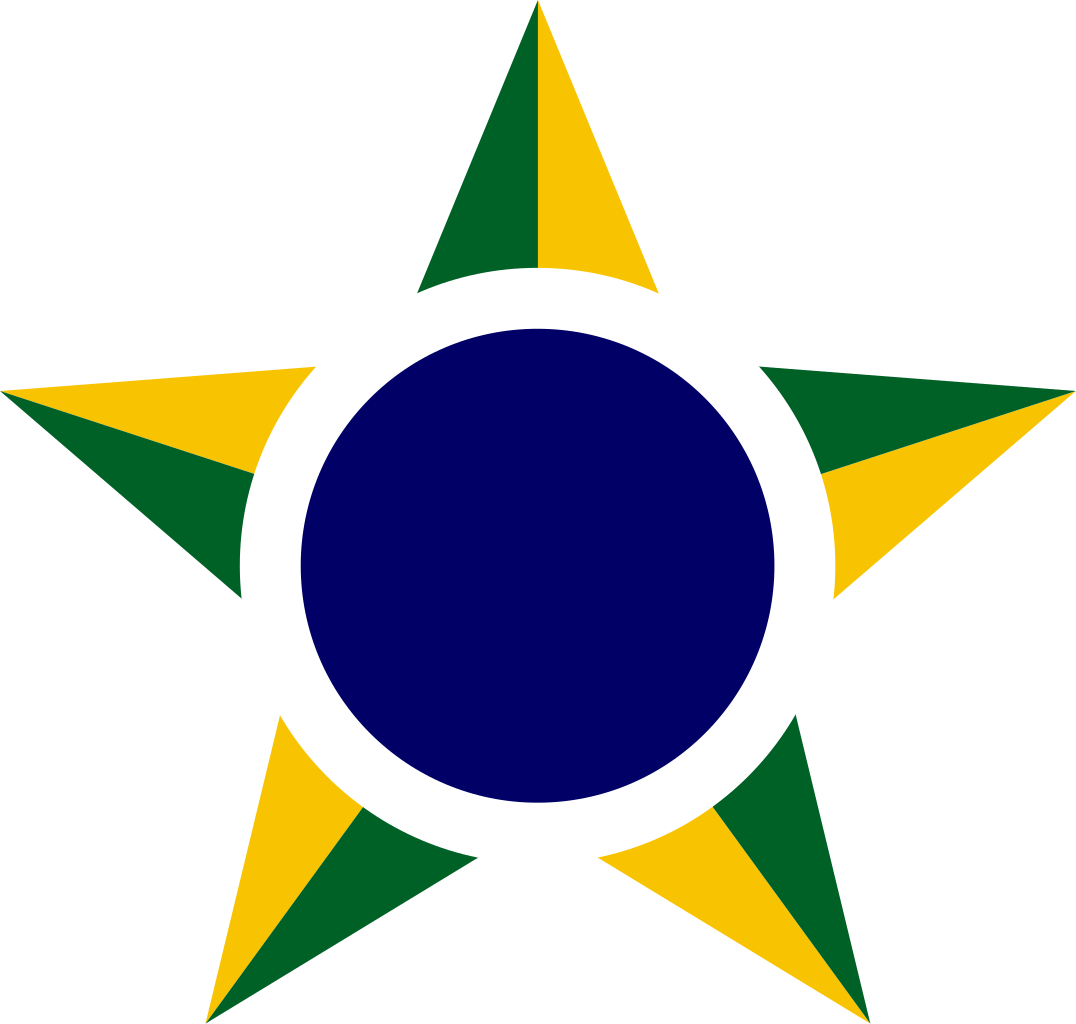
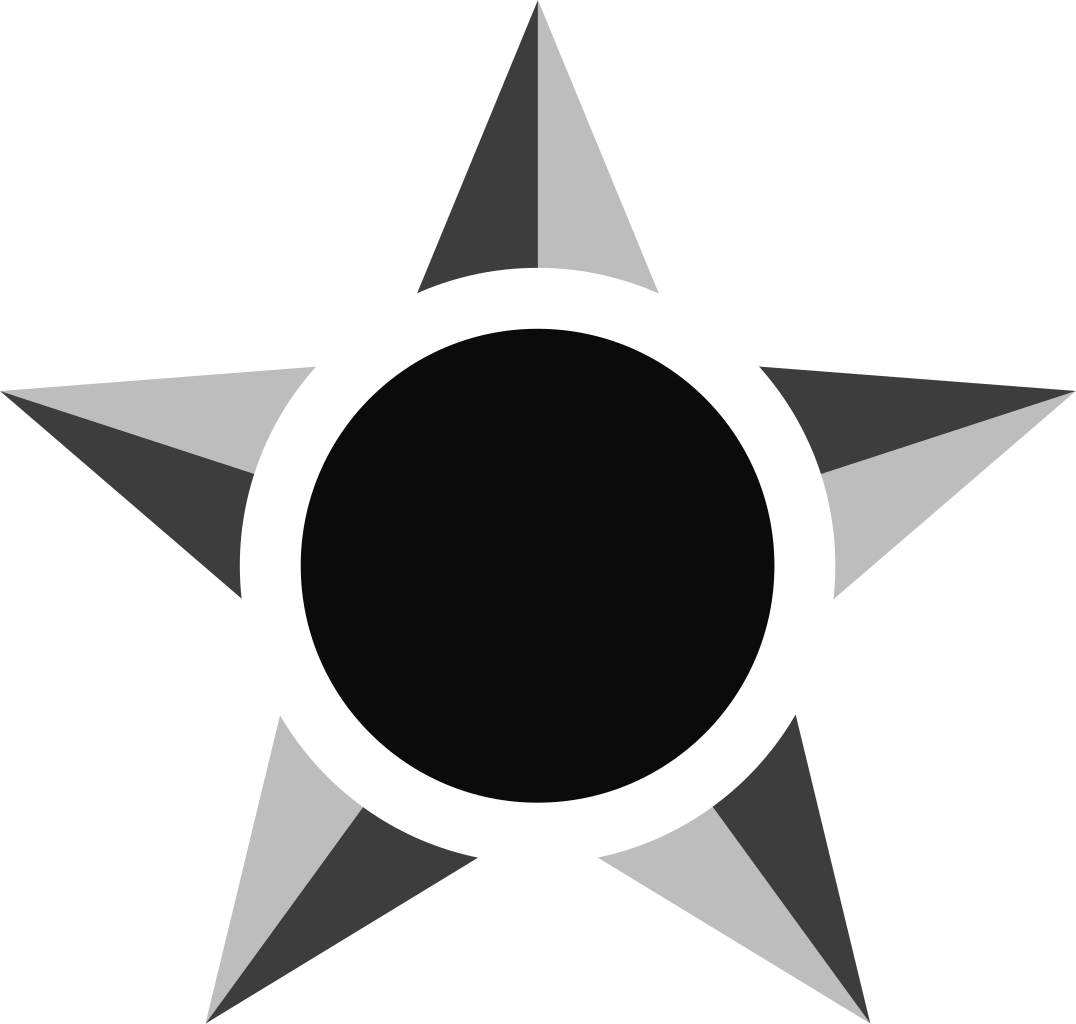
tweak

diff --git a/works/scenes/simulation.js b/works/scenes/simulation.js
@@ -3,6 +3,7 @@ import { GLTFLoader } from "../../build/jsm/loaders/GLTFLoader.js";
 import { MTLLoader } from "../../build/jsm/loaders/MTLLoader.js";
 import { OBJLoader } from "../../build/jsm/loaders/OBJLoader.js";
 
+import * as buildings from "../assets/buildings.js";
 import { Checkpoint } from "../entities/checkpoint.js";
 import { SimulationAircraft } from "../entities/simulation-aircraft.js";
 import { MovingPartsSystem } from "../systems/moving-parts.js";
@@ -36,12 +37,12 @@ class SimulationScene {
   constructor(nextScene, renderer) {
     const scene = new THREE.Scene();
 
-    // const loader = new THREE.TextureLoader();
-    // const texture = loader.load("assets/sky.png", () => {
-    //   const rt = new THREE.WebGLCubeRenderTarget(texture.image.height);
-    //   rt.fromEquirectangularTexture(renderer, texture);
-    //   scene.background = rt.texture;
-    // });
+    const loader = new THREE.TextureLoader();
+    const texture = loader.load("assets/sky.png", () => {
+      const rt = new THREE.WebGLCubeRenderTarget(texture.image.height);
+      rt.fromEquirectangularTexture(renderer, texture);
+      scene.background = rt.texture;
+    });
 
     const checkpoints = checkpointData.map((c) => {
       // Undo aircraft rotation.
@@ -121,7 +122,7 @@ class SimulationScene {
 
       object.translateZ(-25);
       object.translateX(15);
-      object.rotateY(-4 * Math.PI / 3);
+      object.rotateY((-4 * Math.PI) / 3);
 
       scene.add(object);
     });
@@ -144,10 +145,26 @@ class SimulationScene {
       child.castShadow = true;
     });
 
+    const building = buildings.BuildingA();
+    building.translateZ(-200);
+    building.rotateY((-4 * Math.PI) / 3);
+
+    // Temp plane
+    (() => {
+      const geometry = new THREE.PlaneBufferGeometry(50000, 50000);
+      const material = new THREE.MeshBasicMaterial({ side: THREE.DoubleSide, color: "darkgrey" });
+      const mesh = new THREE.Mesh(geometry, material);
+
+      mesh.rotateX(Math.PI / 2)
+
+      scene.add(mesh);
+    })();
+
     aircraft.object.position.set(0, 1.5, 0);
     aircraft.object.rotation.set(0, Math.PI / 2, 0);
     aircraft.object.add(cameraHolder);
     scene.add(aircraft.object);
+    scene.add(building);
 
     addLighting(scene, aircraft.object);
 
@@ -180,7 +197,7 @@ function addLighting(
   target,
   position = new THREE.Vector3(20000, 50000, 80000)
 ) {
-  const ambientLight = new THREE.HemisphereLight("white", "darkslategrey", 0.5);
+  const ambientLight = new THREE.HemisphereLight("white", "darkslategrey", 0.7);
 
   const sunLight = new THREE.DirectionalLight("white", 0.8);
   sunLight.position.copy(position);

diff --git a/works/assets/Mirage.js b/works/assets/Mirage.js
@@ -99,14 +99,14 @@ function tail() {
   rightCanard.rotateZ(Math.PI / 2 + 0.075);
 
   const sticker = new THREE.Mesh(
-    new THREE.PlaneBufferGeometry(600, 384),
+    new THREE.PlaneBufferGeometry(275, 193),
     new THREE.MeshPhongMaterial({
-      map: new THREE.TextureLoader().load("assets/braz.jpg"),
+      color: 0xA0A0A0,
+      map: new THREE.TextureLoader().load("assets/braz.png"),
       side: THREE.DoubleSide,
-      transparent: true,
     })
   );
-  sticker.scale.set(0.15, 0.15, 0.15);
+  sticker.scale.set(0.25, 0.25, 0.25);
   sticker.translateZ(10);
   sticker.translateY(-25);
   sticker.translateX(-75);
@@ -206,8 +206,9 @@ function wing(side) {
   const object = new THREE.Mesh(geometry, fuselageMaterial);
 
   const sticker = new THREE.Mesh(
-    new THREE.PlaneBufferGeometry(800, 800),
+    new THREE.PlaneBufferGeometry(425, 425),
     new THREE.MeshPhongMaterial({
+      color: 0x647f9c,
       map: new THREE.TextureLoader().load("assets/round.png"),
       side: THREE.DoubleSide,
       transparent: true,
@@ -215,8 +216,8 @@ function wing(side) {
   );
   sticker.scale.set(0.2, 0.2, 0.2);
   sticker.translateZ(10);
-  sticker.translateY(-25);
-  sticker.translateX(-150);
+  sticker.translateY(-150);
+  sticker.translateX(-275);
 
   object.add(pylon());
   object.add(elevons(side));

diff --git a/works/assets/buildings.js b/works/assets/buildings.js
@@ -1,0 +1,24 @@
+import * as THREE from "../../build/three.module.js";
+
+const BuildingA = () => {
+  const geometry = new THREE.BoxBufferGeometry(40, 20, 20);
+  const material = new THREE.MeshPhongMaterial();
+  const mesh = new THREE.Mesh(geometry, material);
+
+  mesh.translateY(10);
+
+  return mesh;
+};
+
+const BuildingB = () => {
+  const geometry = new THREE.BoxBufferGeometry(2, 2, 4);
+  const material = new THREE.MeshPhongMaterial();
+  const mesh = new THREE.Mesh(geometry, material);
+
+  mesh.scale.set(15, 15, 15);
+  mesh.translateY(15);
+
+  return mesh;
+};
+
+export { BuildingA };

diff --git a/works/scenes/inspection.js b/works/scenes/inspection.js
@@ -17,12 +17,11 @@ class InspectionScene {
 
     const aircraft = new InspectionAircraft();
 
-    // const ambientLight = new THREE.AmbientLight(0xffffff, 0.35);
-    // const splotLight = new THREE.SpotLight(0xffffff, 0.75);
-    const spotLight = new THREE.SpotLight(0xffffff, 1);
+    const ambientLight = new THREE.AmbientLight(0xffffff, 0.35);
+    const spotLight = new THREE.SpotLight(0xffffff, 0.75);
 
     this.camera.add(spotLight);
-    // this.scene.add(ambientLight);
+    this.scene.add(ambientLight);
     this.scene.add(this.camera);
     this.scene.add(aircraft.object);
 

diff --git a/works/systems/physics.js b/works/systems/physics.js
@@ -24,8 +24,8 @@ class PhysicsSystem {
       const controls = this.entity.controls;
 
       const factor = Math.min(physics.velocity.x, MIN_VEL) / MIN_VEL;
-      physics.angularVelocity.x = controls.roll * 2.5 * Math.pow(factor, 6);
-      physics.angularVelocity.y = controls.yaw * 2 * Math.pow(factor, 0.5);
+      physics.angularVelocity.x = controls.roll * 4 * Math.pow(factor, 6);
+      physics.angularVelocity.y = controls.yaw * 3 * Math.pow(factor, 0.5);
       physics.angularVelocity.z = controls.pitch * 0.6 * Math.pow(factor, 6);
 
       const targetVelocity =
